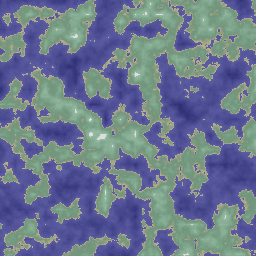
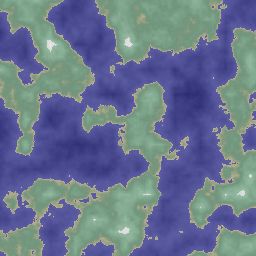
Have more octaves

diff --git a/map/mapgen.py b/map/mapgen.py
@@ -9,7 +9,7 @@ import sys
 
 # note that the size of each pixel is 20 meters
 base = .4
-count = 6
+count = 10
 freqs = []
 amps = []
 copy = count
